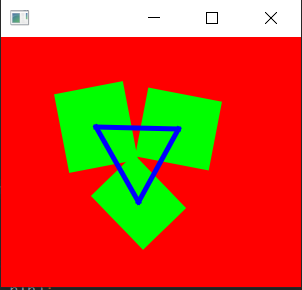
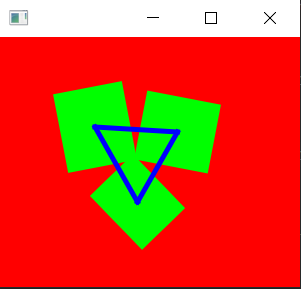
Last touch to lab1 0.1

diff --git a/src/sample/Main.java b/src/sample/Main.java
@@ -22,7 +22,7 @@ public class Main extends Application {
         Rectangle r2 = new Rectangle(r1x + r1w - 30, r1y + r1h + 5, 75, 60);
         r2.setRotate(45.9);
 
-        Rectangle r3 = new Rectangle(r1x + r1w + 10, r1y + 7, 75, 70);
+        Rectangle r3 = new Rectangle(r1x + r1w + 10, r1y + 10, 75, 70);
         r3.setRotate(10.9);
 
         Line l1 = new Line(r1.getX() + r1.getWidth() / 2, r1.getY() + r1.getHeight() / 2, r2.getX() + r2.getWidth() / 2, r2.getY() + r2.getHeight() / 2);
